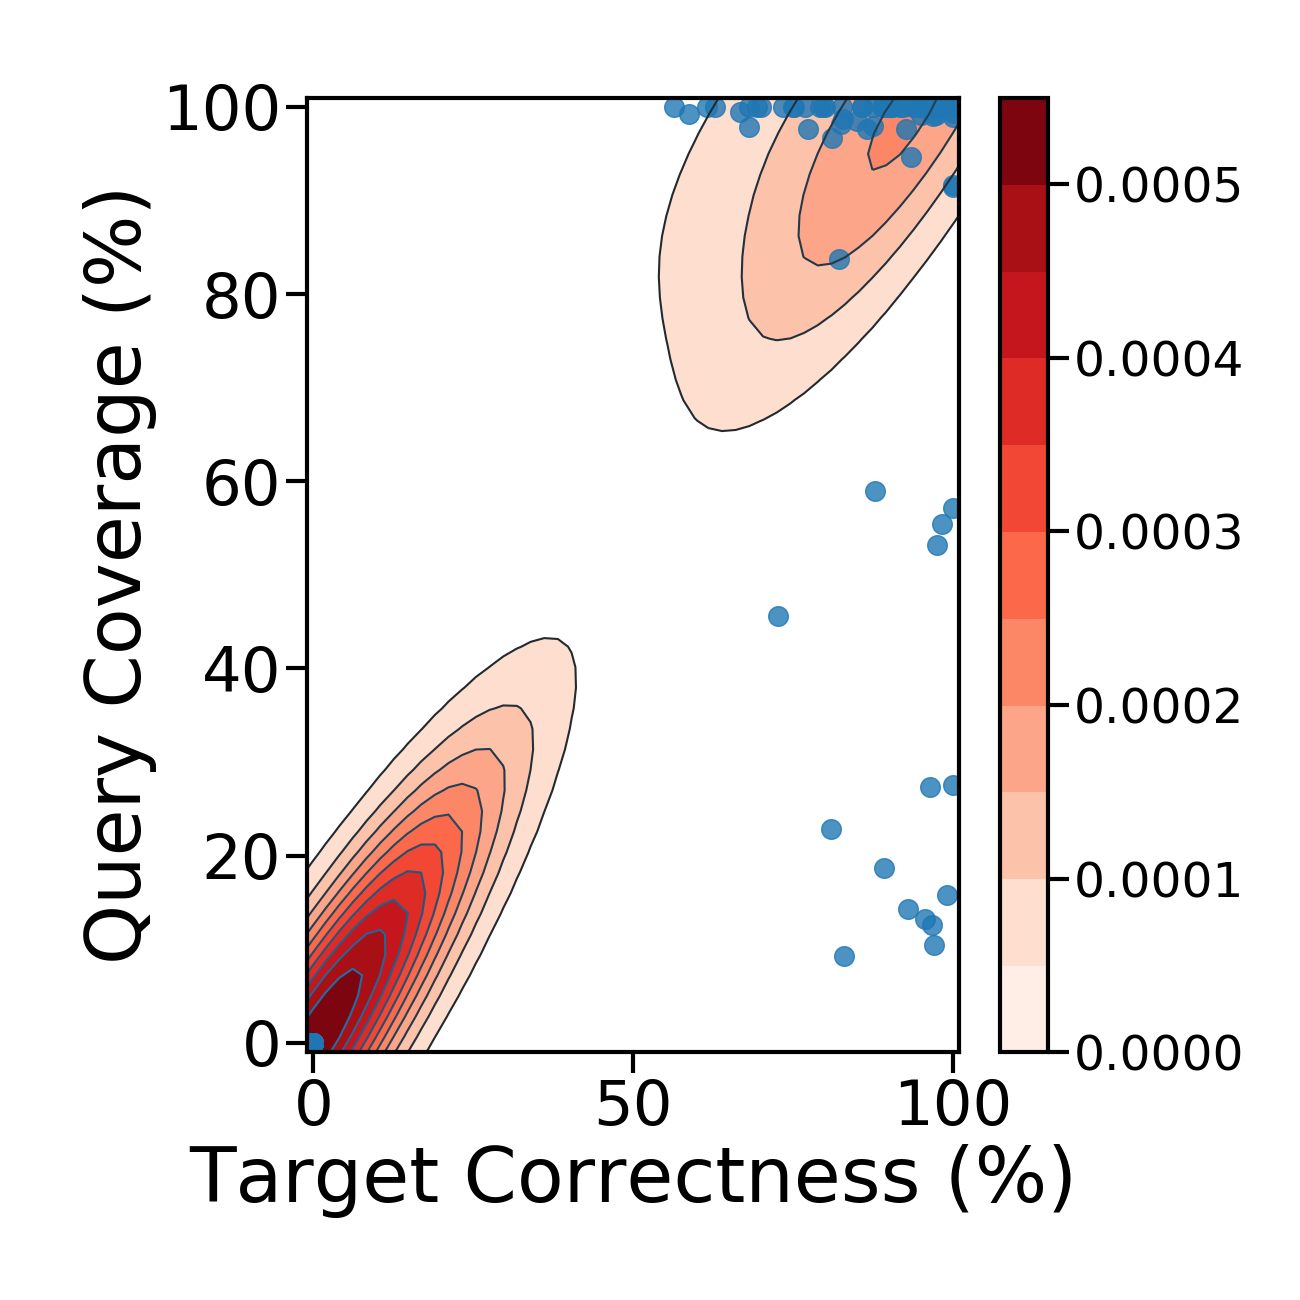
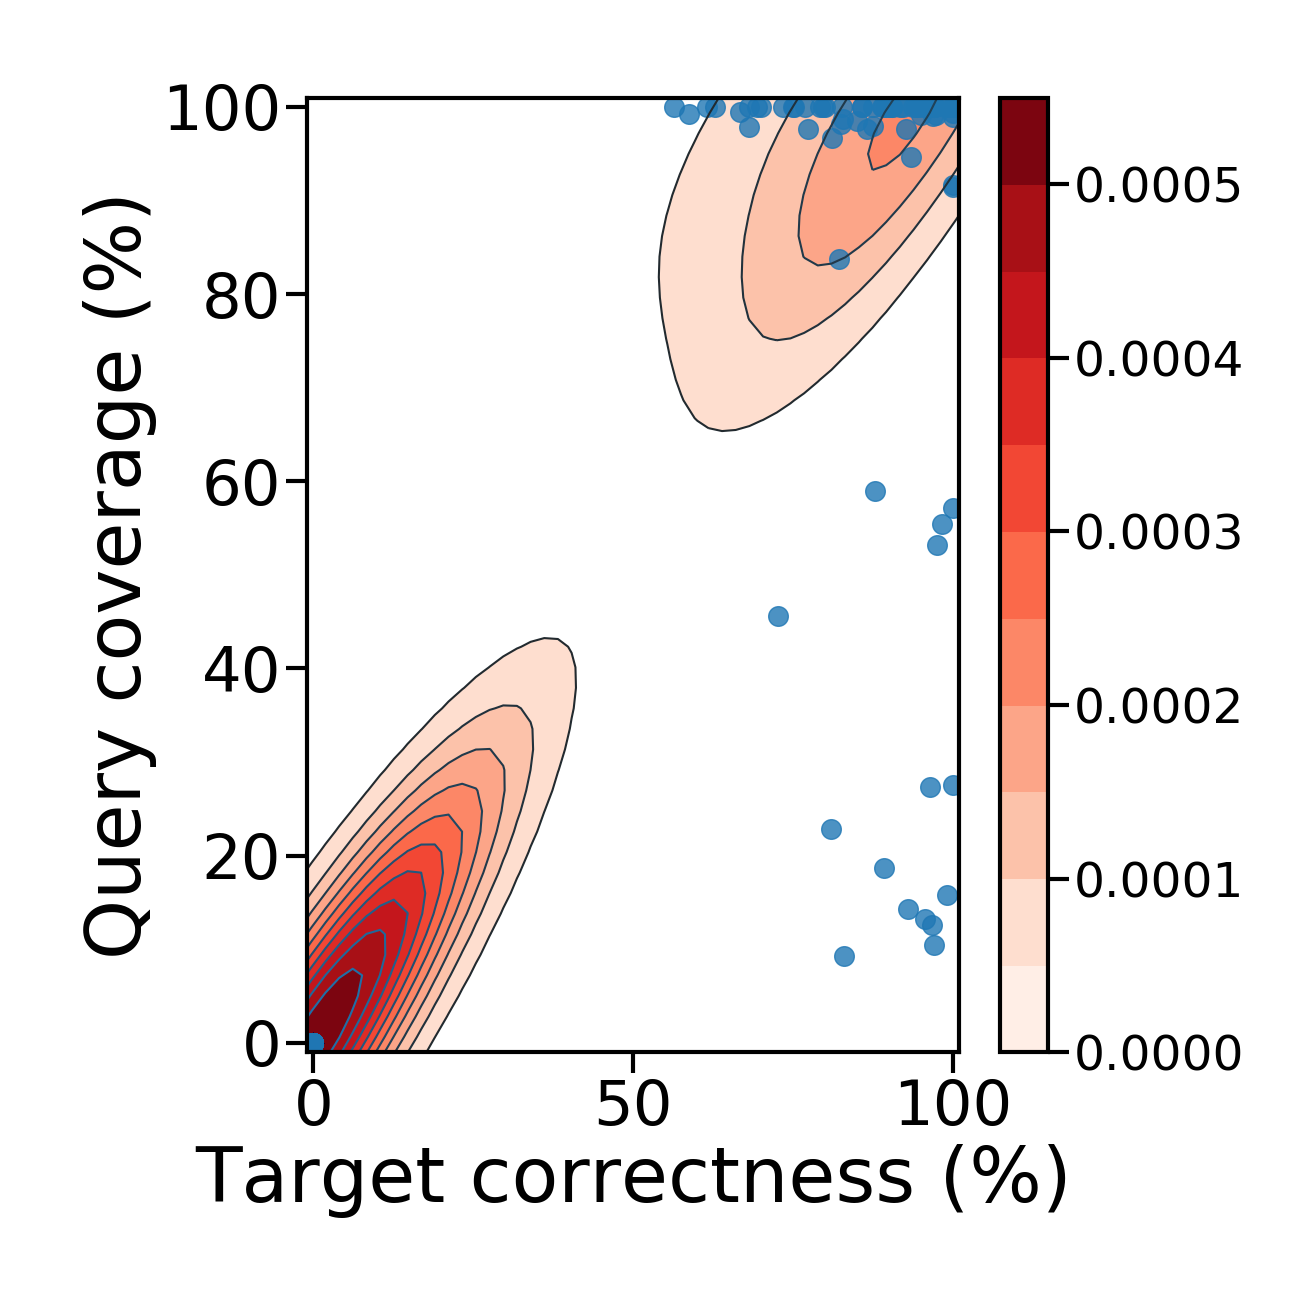
Update figures
No longer capitalize every word

Changed region(s): [[0.0615, 0.1231, 0.1231, 0.7385], [0.1538, 0.8615, 0.8308, 0.9538]]

diff --git a/src/app/helper_scripts/data_crunching/wrangle_csv.py b/src/app/helper_scripts/data_crunching/wrangle_csv.py
@@ -92,8 +92,8 @@ def plot_comparison_scatter(data, file_path):
 
     plt.xlim((-1, 101))
     plt.ylim((-1, 101))
-    plt.xlabel('GapPredict Correctness (%)')
-    plt.ylabel('Sealer Correctness (%)')
+    plt.xlabel('GapPredict correctness (%)')
+    plt.ylabel('Sealer correctness (%)')
 
     plt.tight_layout()
     fig = plt.savefig(file_path)
@@ -122,8 +122,8 @@ def plot_scatter(data, file_path):
 
     plt.xlim((-1, 101))
     plt.ylim((-1, 101))
-    plt.xlabel('Target Correctness (%)')
-    plt.ylabel('Query Coverage (%)')
+    plt.xlabel('Target correctness (%)')
+    plt.ylabel('Query coverage (%)')
 
     plt.tight_layout()
     fig = plt.savefig(file_path)

diff --git a/src/app/helper_scripts/data_crunching/wrangle_sealer.py b/src/app/helper_scripts/data_crunching/wrangle_sealer.py
@@ -48,8 +48,8 @@ def plot_box(data, file_path):
     ax = sns.boxplot(data=data, x="fixed_status", y="target_correctness", linewidth=linewidth, flierprops=flierprops)
     ax.set_xticklabels(ax.get_xticklabels(), rotation=rotation)
     plt.ylim((-5, 101))
-    plt.xlabel('Gap Reads Source')
-    plt.ylabel('Target Correctness (%)')
+    plt.xlabel('Gap reads source')
+    plt.ylabel('Target correctness (%)')
 
     plt.tight_layout()
     fig = plt.savefig(file_path)
